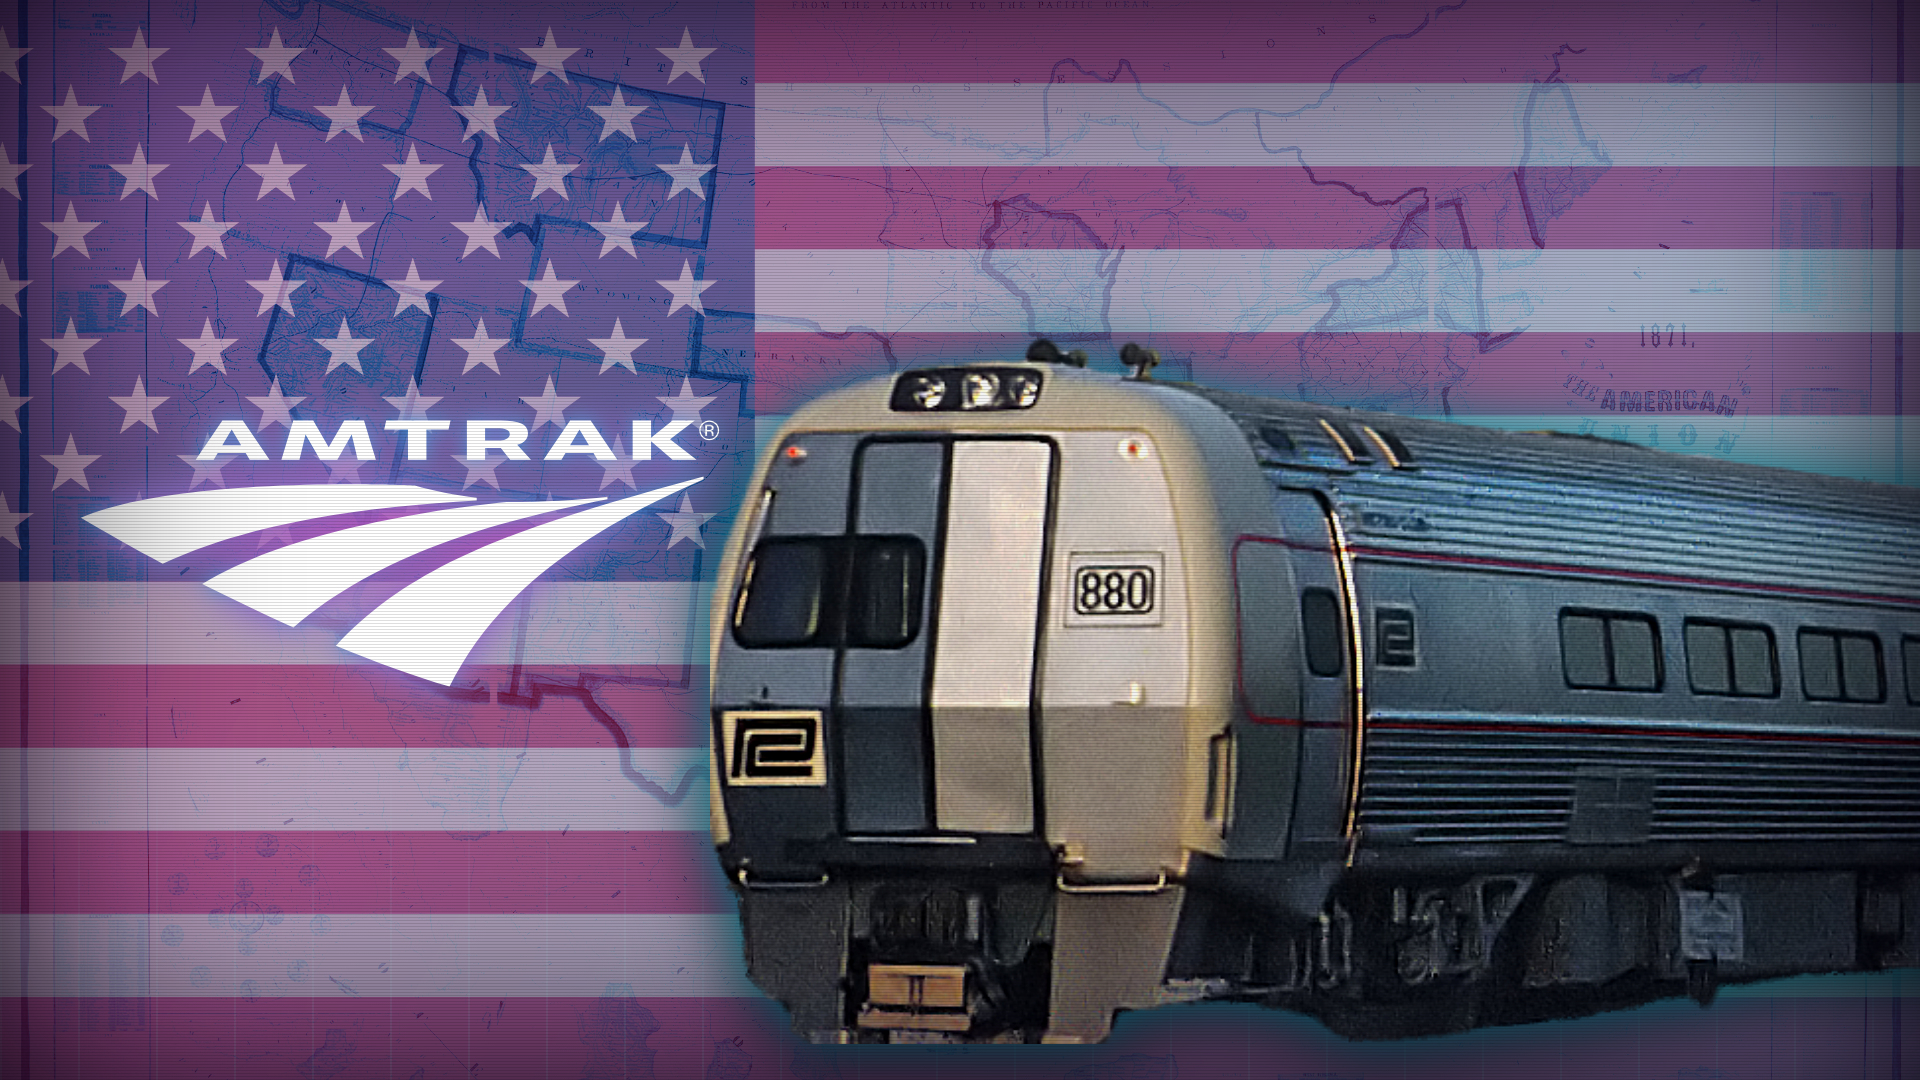
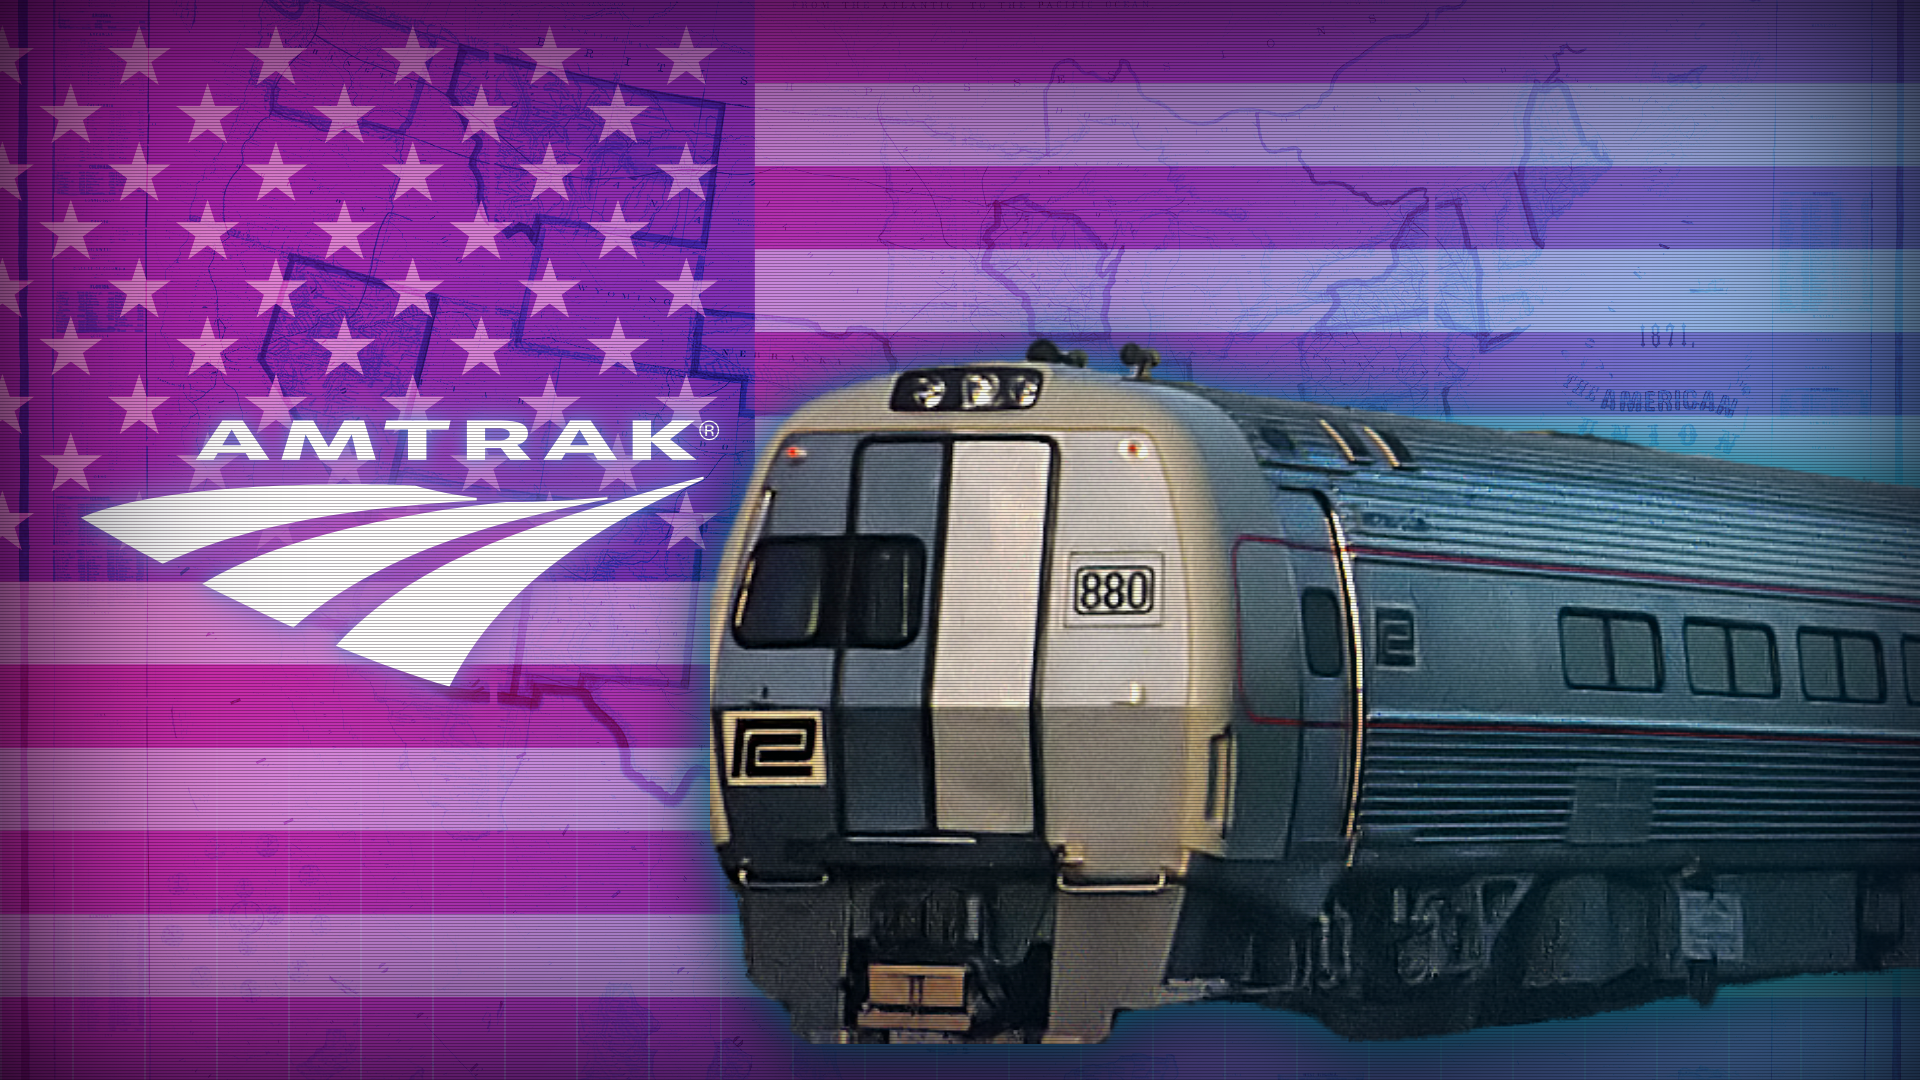
Thumbnail v3: stronger retro-cyber grade
Claude-Session: https://claude.ai/code/session_01FT4gLFx4vRKh7zJaU16rKU

diff --git a/project/remotion/src/ThumbEv.tsx b/project/remotion/src/ThumbEv.tsx
@@ -13,12 +13,13 @@ export const ThumbEv: React.FC = () => {
         <Img src={staticFile('maps/railmap1871.jpg')} style={{width: '100%', height: '100%', objectFit: 'cover', mixBlendMode: 'screen', opacity: 0.4, filter: 'grayscale(1) brightness(1.4) contrast(1.3) sepia(1) hue-rotate(150deg) saturate(3)'}} />
       </AbsoluteFill>
 
-      {/* 3 — synthwave duotone + bloom */}
-      <AbsoluteFill style={{background: 'linear-gradient(120deg, rgba(255,28,170,0.55) 0%, rgba(90,20,180,0.4) 50%, rgba(0,180,255,0.5) 100%)', mixBlendMode: 'overlay', opacity: 0.6}} />
-      <AbsoluteFill style={{background: 'radial-gradient(130% 90% at 50% 55%, transparent 28%, rgba(120,0,190,0.7) 100%)', mixBlendMode: 'screen', opacity: 0.6}} />
+      {/* 3 — synthwave duotone + bloom (strong) */}
+      <AbsoluteFill style={{background: 'linear-gradient(120deg, rgba(255,20,160,0.8) 0%, rgba(120,20,220,0.6) 50%, rgba(0,200,255,0.78) 100%)', mixBlendMode: 'overlay', opacity: 0.92}} />
+      <AbsoluteFill style={{background: 'linear-gradient(120deg, rgba(255,20,160,0.5) 0%, rgba(120,20,220,0.3) 50%, rgba(0,200,255,0.5) 100%)', mixBlendMode: 'color', opacity: 0.5}} />
+      <AbsoluteFill style={{background: 'radial-gradient(130% 90% at 50% 55%, transparent 22%, rgba(140,0,210,0.85) 100%)', mixBlendMode: 'screen', opacity: 0.78}} />
 
       {/* bottom neon horizon grid */}
-      <AbsoluteFill style={{top: 'auto', bottom: 0, height: 340, backgroundImage: 'repeating-linear-gradient(90deg, rgba(0,235,255,0.6) 0px, rgba(0,235,255,0.6) 2px, transparent 2px, transparent 78px)', maskImage: 'linear-gradient(to top, black, transparent)', WebkitMaskImage: 'linear-gradient(to top, black, transparent)', mixBlendMode: 'screen', opacity: 0.22}} />
+      <AbsoluteFill style={{top: 'auto', bottom: 0, height: 380, backgroundImage: 'repeating-linear-gradient(90deg, rgba(0,235,255,0.7) 0px, rgba(0,235,255,0.7) 2px, transparent 2px, transparent 72px)', maskImage: 'linear-gradient(to top, black, transparent)', WebkitMaskImage: 'linear-gradient(to top, black, transparent)', mixBlendMode: 'screen', opacity: 0.34}} />
 
       {/* 4 — Metroliner entering from the right, fills the right side, tall */}
       <Img
@@ -32,9 +33,10 @@ export const ThumbEv: React.FC = () => {
         style={{position: 'absolute', left: 80, top: 420, width: 640, filter: 'drop-shadow(0 0 22px rgba(255,40,170,0.85)) drop-shadow(0 0 10px rgba(0,220,255,0.8))'}}
       />
 
-      {/* scanlines + vignette */}
-      <AbsoluteFill style={{backgroundImage: 'repeating-linear-gradient(0deg, rgba(0,0,0,0.26) 0px, rgba(0,0,0,0.26) 1px, transparent 1px, transparent 3px)', mixBlendMode: 'multiply', opacity: 0.5}} />
-      <AbsoluteFill style={{boxShadow: 'inset 0 0 420px rgba(3,0,10,0.98)'}} />
+      {/* scanlines + vignette (stronger) */}
+      <AbsoluteFill style={{backgroundImage: 'repeating-linear-gradient(0deg, rgba(0,0,0,0.42) 0px, rgba(0,0,0,0.42) 1px, transparent 1px, transparent 3px)', mixBlendMode: 'multiply', opacity: 0.7}} />
+      <AbsoluteFill style={{background: 'linear-gradient(120deg, rgba(255,0,150,0.16) 0%, transparent 45%, rgba(0,210,255,0.16) 100%)', mixBlendMode: 'screen', opacity: 0.8}} />
+      <AbsoluteFill style={{boxShadow: 'inset 0 0 460px rgba(3,0,12,1)'}} />
     </AbsoluteFill>
   );
 };
